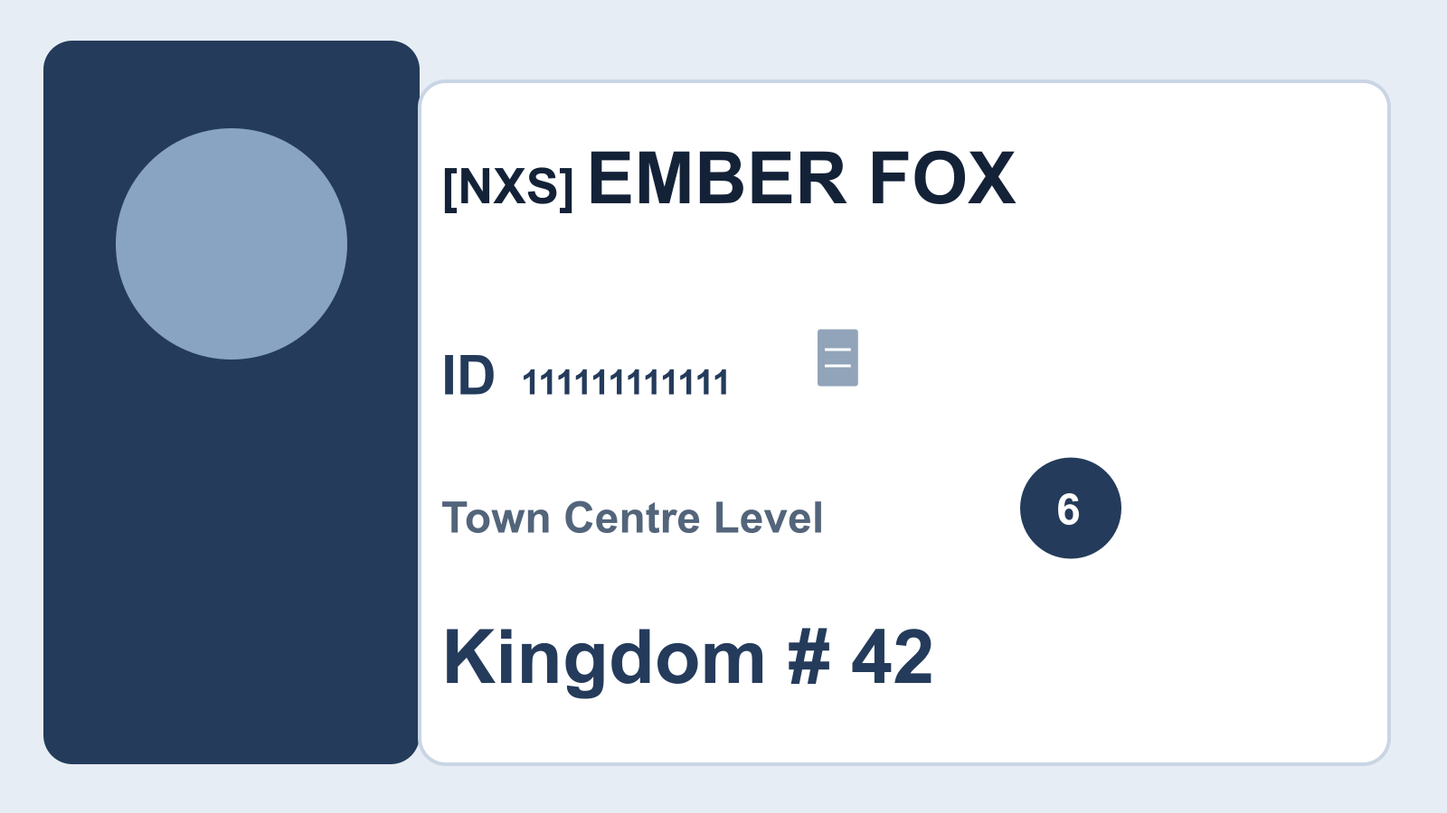
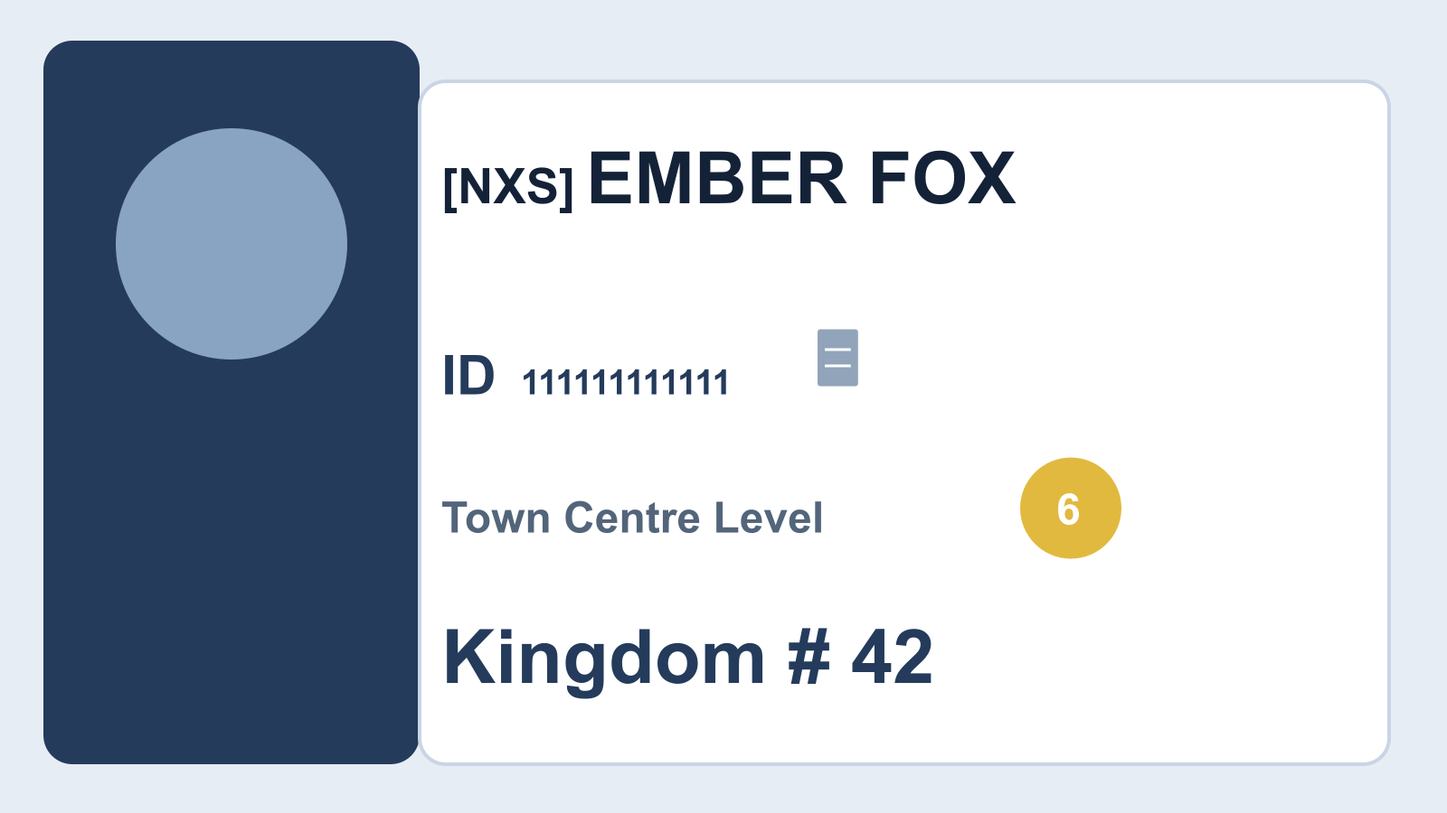
VISION-LINK-008: correct Town Centre badge calibration

Changed region(s): [[0.6875, 0.56, 0.7812, 0.6844]]

diff --git a/server/player-identity/tesseractJsAccountLinkOcrAdapter.ts b/server/player-identity/tesseractJsAccountLinkOcrAdapter.ts
@@ -4,10 +4,10 @@ import { createWorker, PSM, type Worker } from 'tesseract.js'
 import type { VisionExtractionRequest } from '../../shared/platform/vision/contracts.js'
 import { VisionRuntimeError } from '../vision/runtime/errors.js'
 import type { AccountLinkOcrAdapter } from './accountLinkingOcrService.js'
-import { KINGSHOT_PROFILE_V1_MAPPING_VERSION, KINGSHOT_PROFILE_V2_MAPPING_VERSION, KINGSHOT_PROFILE_V3_MAPPING_VERSION, KINGSHOT_PROFILE_V4_MAPPING_VERSION, KINGSHOT_PROFILE_V5_MAPPING_VERSION, KINGSHOT_PROFILE_V6_MAPPING_VERSION, prepareProfileRegion, type KingshotProfileRegion } from './kingshotProfileOcr.js'
-import { KINGSHOT_PROFILE_V1_REGIONS, KINGSHOT_PROFILE_V2_REGIONS, KINGSHOT_PROFILE_V3_REGIONS, KINGSHOT_PROFILE_V4_REGIONS, KINGSHOT_PROFILE_V5_REGIONS, KINGSHOT_PROFILE_V6_REGIONS, type KingshotProfileField } from '../../shared/domains/player-identity/kingshotProfileMapping.js'
+import { KINGSHOT_PROFILE_V1_MAPPING_VERSION, KINGSHOT_PROFILE_V2_MAPPING_VERSION, KINGSHOT_PROFILE_V3_MAPPING_VERSION, KINGSHOT_PROFILE_V4_MAPPING_VERSION, KINGSHOT_PROFILE_V5_MAPPING_VERSION, KINGSHOT_PROFILE_V6_MAPPING_VERSION, KINGSHOT_PROFILE_V7_MAPPING_VERSION, prepareProfileRegion, type KingshotProfileRegion } from './kingshotProfileOcr.js'
+import { KINGSHOT_PROFILE_V1_REGIONS, KINGSHOT_PROFILE_V2_REGIONS, KINGSHOT_PROFILE_V3_REGIONS, KINGSHOT_PROFILE_V4_REGIONS, KINGSHOT_PROFILE_V5_REGIONS, KINGSHOT_PROFILE_V6_REGIONS, KINGSHOT_PROFILE_V7_REGIONS, type KingshotProfileField } from '../../shared/domains/player-identity/kingshotProfileMapping.js'
 import type { AccountLinkOcrDisposition, AccountLinkOcrMappingVersion, AccountLinkOcrRegionObservation } from '../../shared/domains/player-identity/accountLinkingOcr.js'
-import { consensusPlayerId, consensusComponentDigits, consensusKingdomLine, type ComponentNumericObservation, type PlayerIdObservation } from '../../shared/domains/player-identity/kingshotProfileConsensus.js'
+import { consensusPlayerId, consensusComponentDigits, consensusKingdomLine, consensusTownCenterBadge, type ComponentNumericObservation, type PlayerIdObservation } from '../../shared/domains/player-identity/kingshotProfileConsensus.js'
 
 const require = createRequire(import.meta.url)
 const RUNTIME_TIMEOUT_MS = 45_000
@@ -45,7 +45,8 @@ export class TesseractJsAccountLinkOcrAdapter implements AccountLinkOcrAdapter {
     try {
       const paths = bundledPaths()
       worker = await this.#workerFactory.create({ workerPath: paths.workerPath, langPath: paths.langPath, cacheMethod: 'none', gzip: true, workerBlobURL: false, logger: () => {} })
-      if (request.mappingVersionId === KINGSHOT_PROFILE_V6_MAPPING_VERSION) return await this.#extractV4(worker, request, true, true)
+      if (request.mappingVersionId === KINGSHOT_PROFILE_V7_MAPPING_VERSION) return await this.#extractV4(worker, request, true, true, 'v7')
+      if (request.mappingVersionId === KINGSHOT_PROFILE_V6_MAPPING_VERSION) return await this.#extractV4(worker, request, true, true, 'v6')
       if (request.mappingVersionId === KINGSHOT_PROFILE_V5_MAPPING_VERSION) return await this.#extractV4(worker, request, true)
       if (request.mappingVersionId === KINGSHOT_PROFILE_V4_MAPPING_VERSION) return await this.#extractV4(worker, request)
       if (request.mappingVersionId === KINGSHOT_PROFILE_V3_MAPPING_VERSION) return await this.#extractV3(worker, request)
@@ -153,12 +154,12 @@ export class TesseractJsAccountLinkOcrAdapter implements AccountLinkOcrAdapter {
     return { ...this.#output('', consensus.confidence, observations, diagnostics, fields, KINGSHOT_PROFILE_V3_MAPPING_VERSION), diagnostics: { mappingVersion: KINGSHOT_PROFILE_V3_MAPPING_VERSION, regions: diagnostics, fields, passes } }
   }
 
-  async #extractV4(worker: Worker, request: VisionExtractionRequest, labelledKingdomLine = false, townCenter = false) {
-    const region = (key: string) => (townCenter ? KINGSHOT_PROFILE_V6_REGIONS : KINGSHOT_PROFILE_V4_REGIONS).find((item) => item.key === key)!
+  async #extractV4(worker: Worker, request: VisionExtractionRequest, labelledKingdomLine = false, townCenter = false, townCalibration: 'v6' | 'v7' = 'v6') {
+    const region = (key: string) => (townCenter ? townCalibration === 'v7' ? KINGSHOT_PROFILE_V7_REGIONS : KINGSHOT_PROFILE_V6_REGIONS : KINGSHOT_PROFILE_V4_REGIONS).find((item) => item.key === key)!
     const panel = await this.#recognizePrepared(worker, request, region('profilePanel'), 'greyscale', PSM.SPARSE_TEXT, null)
     const passes: Array<{ field: KingshotProfileField; passType: 'labelled_line' | 'numeric_only' | 'panel' | 'label_component' | 'digits_single_word' | 'digits_single_line'; variant: 'greyscale' | 'threshold' | 'inverted'; attempted: boolean; confidence: number; labelContext: boolean; warnings: string[] }> = []
-    const read = async (field: KingshotProfileField, item: KingshotProfileRegion, variant: 'greyscale' | 'threshold' | 'inverted', psm: string, passType: 'label_component' | 'digits_single_word' | 'digits_single_line', whitelist: string | null) => {
-      const result = await this.#recognizePrepared(worker, request, item, variant, psm, whitelist)
+    const read = async (field: KingshotProfileField, item: KingshotProfileRegion, variant: 'greyscale' | 'threshold' | 'inverted', psm: string, passType: 'label_component' | 'digits_single_word' | 'digits_single_line', whitelist: string | null, thresholdValue = 168, focus?: { x: number; y: number; width: number; height: number }) => {
+      const result = await this.#recognizePrepared(worker, request, item, variant, psm, whitelist, thresholdValue, focus)
       const text = cleanRawText(result.text)
       const labelContext = field === 'playerId' ? /(?:[i1]d)/i.test(text) : field === 'kingdom' ? /kingdom/i.test(text) : false
       passes.push({ field, passType, variant, attempted: true, confidence: result.confidence, labelContext, warnings: result.confidence === 0 ? ['zero_confidence_numeric'] : [] })
@@ -238,22 +239,30 @@ export class TesseractJsAccountLinkOcrAdapter implements AccountLinkOcrAdapter {
     await readSupporting('displayName', 'displayName')
     if (townCenter) {
       const labelRegion = region('townCenterLabel')
-      const badgeRegion = region('townCenterBadge')
+      const tightRegion = region(townCalibration === 'v7' ? 'townCenterBadgeTight' : 'townCenterBadge')
+      const contextRegion = townCalibration === 'v7' ? region('townCenterBadgeContext') : null
       const labelReads = [
         await read('townCenterLevel', labelRegion, 'greyscale', PSM.SINGLE_LINE, 'label_component', labelRegion.characterWhitelist),
         await read('townCenterLevel', labelRegion, 'threshold', PSM.SINGLE_LINE, 'label_component', labelRegion.characterWhitelist),
       ]
       const badgeReads = [
-        await read('townCenterLevel', badgeRegion, 'greyscale', PSM.SINGLE_WORD, 'digits_single_word', '0123456789'),
-        await read('townCenterLevel', badgeRegion, 'greyscale', PSM.SINGLE_LINE, 'digits_single_line', '0123456789'),
-        await read('townCenterLevel', badgeRegion, 'threshold', PSM.SINGLE_WORD, 'digits_single_word', '0123456789'),
-        await read('townCenterLevel', badgeRegion, 'threshold', PSM.SINGLE_LINE, 'digits_single_line', '0123456789'),
-        await read('townCenterLevel', badgeRegion, 'inverted', PSM.SINGLE_WORD, 'digits_single_word', '0123456789'),
-        await read('townCenterLevel', badgeRegion, 'inverted', PSM.SINGLE_LINE, 'digits_single_line', '0123456789'),
+        await read('townCenterLevel', tightRegion, 'greyscale', PSM.SINGLE_WORD, 'digits_single_word', '0123456789', 168, { x: .30, y: .35, width: .40, height: .50 }),
+        await read('townCenterLevel', tightRegion, 'greyscale', PSM.SINGLE_LINE, 'digits_single_line', '0123456789', 168, { x: .30, y: .35, width: .40, height: .50 }),
+        await read('townCenterLevel', tightRegion, 'threshold', PSM.SINGLE_WORD, 'digits_single_word', '0123456789', 220, { x: .30, y: .35, width: .40, height: .50 }),
+        await read('townCenterLevel', tightRegion, 'threshold', PSM.SINGLE_LINE, 'digits_single_line', '0123456789', 220, { x: .30, y: .35, width: .40, height: .50 }),
+        await read('townCenterLevel', tightRegion, 'inverted', PSM.SINGLE_WORD, 'digits_single_word', '0123456789', 168, { x: .30, y: .35, width: .40, height: .50 }),
+        await read('townCenterLevel', tightRegion, 'inverted', PSM.SINGLE_LINE, 'digits_single_line', '0123456789', 168, { x: .30, y: .35, width: .40, height: .50 }),
       ]
+      const contextReads = contextRegion ? [
+        await read('townCenterLevel', contextRegion, 'threshold', PSM.SINGLE_WORD, 'digits_single_word', '0123456789', 220),
+        await read('townCenterLevel', contextRegion, 'inverted', PSM.SINGLE_LINE, 'digits_single_line', '0123456789'),
+      ] : []
       const labelContext = labelReads.some((item) => /town\s*(?:centre|center)/i.test(item.text)) || /town\s*(?:centre|center)/i.test(cleanRawText(panel.text))
-      const numeric = badgeReads.map((item, index) => ({ passType: componentPass(index), variant: componentVariant(index), digits: extractDigits(item.text, 2), confidence: item.confidence }))
-      const consensus = consensusComponentDigits(numeric, labelContext, (value) => Number(value) >= 1 && Number(value) <= 30)
+      const numeric = badgeReads.map((item) => ({ source: 'tight' as const, value: extractDigits(item.text, 2), confidence: item.confidence }))
+      const supporting = contextReads.map((item) => ({ source: 'context' as const, value: extractDigits(item.text, 2), confidence: item.confidence }))
+      const consensus = townCalibration === 'v7'
+        ? consensusTownCenterBadge(numeric, supporting, labelContext)
+        : consensusComponentDigits(badgeReads.map((item, index) => ({ passType: componentPass(index), variant: componentVariant(index), digits: extractDigits(item.text, 2), confidence: item.confidence })), labelContext, (value) => Number(value) >= 1 && Number(value) <= 30)
       const warnings = labelContext ? consensus.warnings : [...consensus.warnings, 'town_center_label_context_required']
       const disposition = consensus.disposition
       const agreement = consensus.agreement === 'insufficient' ? 'not_applicable' : consensus.agreement
@@ -261,12 +270,12 @@ export class TesseractJsAccountLinkOcrAdapter implements AccountLinkOcrAdapter {
       diagnostics.push({ field: 'townCenterLevel', attempted: true, recognized: Boolean(consensus.value), confidence: consensus.confidence, warnings })
       fields.push({ field: 'townCenterLevel', disposition, confidence: consensus.confidence, agreement, warnings })
     }
-    const mappingVersion = townCenter ? KINGSHOT_PROFILE_V6_MAPPING_VERSION : labelledKingdomLine ? KINGSHOT_PROFILE_V5_MAPPING_VERSION : KINGSHOT_PROFILE_V4_MAPPING_VERSION
+    const mappingVersion = townCenter ? townCalibration === 'v7' ? KINGSHOT_PROFILE_V7_MAPPING_VERSION : KINGSHOT_PROFILE_V6_MAPPING_VERSION : labelledKingdomLine ? KINGSHOT_PROFILE_V5_MAPPING_VERSION : KINGSHOT_PROFILE_V4_MAPPING_VERSION
     return { ...this.#output('', Math.max(idConsensus.confidence, ...fields.map((item) => item.confidence)), observations, diagnostics, fields, mappingVersion), diagnostics: { mappingVersion, regions: diagnostics, fields, passes } }
   }
 
-  async #recognizePrepared(worker: Worker, request: VisionExtractionRequest, region: KingshotProfileRegion, variant: 'greyscale' | 'threshold' | 'inverted', psm: string, whitelist: string | null) {
-    const prepared = await prepareProfileRegion({ bytes: request.image.bytes, mimeType: request.image.mimeType, widthPx: request.image.widthPx, heightPx: request.image.heightPx, region, variant })
+  async #recognizePrepared(worker: Worker, request: VisionExtractionRequest, region: KingshotProfileRegion, variant: 'greyscale' | 'threshold' | 'inverted', psm: string, whitelist: string | null, thresholdValue = 168, focus?: { x: number; y: number; width: number; height: number }) {
+    const prepared = await prepareProfileRegion({ bytes: request.image.bytes, mimeType: request.image.mimeType, widthPx: request.image.widthPx, heightPx: request.image.heightPx, region, variant, thresholdValue, focus })
     const result = await this.#recognize(worker, Buffer.from(prepared.bytes), { left: 0, top: 0, width: prepared.widthPx, height: prepared.heightPx }, psm, whitelist, prepared.scale)
     return { ...result, prepared }
   }

diff --git a/server/player-identity/kingshotProfileOcr.ts b/server/player-identity/kingshotProfileOcr.ts
@@ -1,6 +1,6 @@
 import sharp from 'sharp'
 import type { VisionPixelBox, VisionRegionBinding } from '../../shared/platform/vision/contracts.js'
-import { KINGSHOT_PROFILE_V1_REGIONS, KINGSHOT_PROFILE_V2_REGIONS, KINGSHOT_PROFILE_V3_REGIONS, KINGSHOT_PROFILE_V4_REGIONS, KINGSHOT_PROFILE_V5_REGIONS, KINGSHOT_PROFILE_V6_REGIONS, type KingshotProfileRegionConfig } from '../../shared/domains/player-identity/kingshotProfileMapping.js'
+import { KINGSHOT_PROFILE_V1_REGIONS, KINGSHOT_PROFILE_V2_REGIONS, KINGSHOT_PROFILE_V3_REGIONS, KINGSHOT_PROFILE_V4_REGIONS, KINGSHOT_PROFILE_V5_REGIONS, KINGSHOT_PROFILE_V6_REGIONS, KINGSHOT_PROFILE_V7_REGIONS, type KingshotProfileRegionConfig } from '../../shared/domains/player-identity/kingshotProfileMapping.js'
 
 export const KINGSHOT_PROFILE_V1_MAPPING_VERSION = 'account-linking-kingshot-profile-v1' as const
 export const KINGSHOT_PROFILE_V2_MAPPING_VERSION = 'account-linking-kingshot-profile-v2' as const
@@ -8,15 +8,16 @@ export const KINGSHOT_PROFILE_V3_MAPPING_VERSION = 'account-linking-kingshot-pro
 export const KINGSHOT_PROFILE_V4_MAPPING_VERSION = 'account-linking-kingshot-profile-v4' as const
 export const KINGSHOT_PROFILE_V5_MAPPING_VERSION = 'account-linking-kingshot-profile-v5' as const
 export const KINGSHOT_PROFILE_V6_MAPPING_VERSION = 'account-linking-kingshot-profile-v6' as const
+export const KINGSHOT_PROFILE_V7_MAPPING_VERSION = 'account-linking-kingshot-profile-v7' as const
 export const KINGSHOT_PROFILE_V2_MAPPING_ID = 'account-linking-kingshot-profile-v2'
 export const KINGSHOT_PROFILE_MAX_PIXELS = 8_000_000
 export const KINGSHOT_PROFILE_MAX_DIMENSION = 4_000
 
 export type KingshotProfileRegion = KingshotProfileRegionConfig
 
-export function profileRegionBindings(version: 'v1' | 'v2' | 'v3' | 'v4' | 'v5' | 'v6' = 'v2'): VisionRegionBinding[] {
-  const regions = version === 'v1' ? KINGSHOT_PROFILE_V1_REGIONS : version === 'v3' ? KINGSHOT_PROFILE_V3_REGIONS : version === 'v4' ? KINGSHOT_PROFILE_V4_REGIONS : version === 'v5' ? KINGSHOT_PROFILE_V5_REGIONS : version === 'v6' ? KINGSHOT_PROFILE_V6_REGIONS : KINGSHOT_PROFILE_V2_REGIONS
-  const mappingId = version === 'v1' ? 'account-linking-kingshot-profile-v1' : version === 'v3' ? KINGSHOT_PROFILE_V3_MAPPING_VERSION : version === 'v4' ? KINGSHOT_PROFILE_V4_MAPPING_VERSION : version === 'v5' ? KINGSHOT_PROFILE_V5_MAPPING_VERSION : version === 'v6' ? KINGSHOT_PROFILE_V6_MAPPING_VERSION : KINGSHOT_PROFILE_V2_MAPPING_ID
+export function profileRegionBindings(version: 'v1' | 'v2' | 'v3' | 'v4' | 'v5' | 'v6' | 'v7' = 'v2'): VisionRegionBinding[] {
+  const regions = version === 'v1' ? KINGSHOT_PROFILE_V1_REGIONS : version === 'v3' ? KINGSHOT_PROFILE_V3_REGIONS : version === 'v4' ? KINGSHOT_PROFILE_V4_REGIONS : version === 'v5' ? KINGSHOT_PROFILE_V5_REGIONS : version === 'v6' ? KINGSHOT_PROFILE_V6_REGIONS : version === 'v7' ? KINGSHOT_PROFILE_V7_REGIONS : KINGSHOT_PROFILE_V2_REGIONS
+  const mappingId = version === 'v1' ? 'account-linking-kingshot-profile-v1' : version === 'v3' ? KINGSHOT_PROFILE_V3_MAPPING_VERSION : version === 'v4' ? KINGSHOT_PROFILE_V4_MAPPING_VERSION : version === 'v5' ? KINGSHOT_PROFILE_V5_MAPPING_VERSION : version === 'v6' ? KINGSHOT_PROFILE_V6_MAPPING_VERSION : version === 'v7' ? KINGSHOT_PROFILE_V7_MAPPING_VERSION : KINGSHOT_PROFILE_V2_MAPPING_ID
   return regions.map((region, index) => ({ id: `${mappingId}-${region.key}`, regionKey: region.key, label: region.label, role: region.componentRole === 'exclusion' ? 'comparison' : 'source', anchorRules: { layout: 'kingshot-profile-card', psm: region.psm, characterWhitelist: region.characterWhitelist, observation: region.observation, componentRole: region.componentRole ?? 'ocr' }, sortOrder: index, x: region.x, y: region.y, width: region.width, height: region.height }))
 }
 
@@ -36,16 +37,17 @@ export interface PreparedProfileRegion {
   readonly warningCodes: readonly string[]
 }
 
-export async function prepareProfileRegion(input: { bytes: Uint8Array; mimeType: string; widthPx: number; heightPx: number; region: KingshotProfileRegion; variant?: 'greyscale' | 'threshold' | 'inverted' }): Promise<PreparedProfileRegion> {
+export async function prepareProfileRegion(input: { bytes: Uint8Array; mimeType: string; widthPx: number; heightPx: number; region: KingshotProfileRegion; variant?: 'greyscale' | 'threshold' | 'inverted'; thresholdValue?: number; focus?: { x: number; y: number; width: number; height: number } }): Promise<PreparedProfileRegion> {
   const sourceRectangle = mapProfileRegion(input.region, input.widthPx, input.heightPx)
+  const cropRectangle = input.focus ? { left: sourceRectangle.left + Math.floor(sourceRectangle.width * input.focus.x), top: sourceRectangle.top + Math.floor(sourceRectangle.height * input.focus.y), width: Math.max(1, Math.floor(sourceRectangle.width * input.focus.width)), height: Math.max(1, Math.floor(sourceRectangle.height * input.focus.height)) } : sourceRectangle
   const padding = 12
   const scale = 3
-  const outputWidth = Math.min(KINGSHOT_PROFILE_MAX_DIMENSION, (sourceRectangle.width + padding * 2) * scale)
-  const outputHeight = Math.min(KINGSHOT_PROFILE_MAX_DIMENSION, (sourceRectangle.height + padding * 2) * scale)
+  const outputWidth = Math.min(KINGSHOT_PROFILE_MAX_DIMENSION, (cropRectangle.width + padding * 2) * scale)
+  const outputHeight = Math.min(KINGSHOT_PROFILE_MAX_DIMENSION, (cropRectangle.height + padding * 2) * scale)
   if (outputWidth * outputHeight > KINGSHOT_PROFILE_MAX_PIXELS) throw new Error('Profile OCR preprocessing exceeded its bounded pixel budget.')
   const variant = input.variant ?? 'greyscale'
-  let pipeline = sharp(Buffer.from(input.bytes), { failOn: 'error' }).extract(sourceRectangle).extend({ top: padding, bottom: padding, left: padding, right: padding, background: { r: 255, g: 255, b: 255, alpha: 1 } }).resize({ width: outputWidth, height: outputHeight, fit: 'fill', kernel: 'lanczos3' }).grayscale().linear(1.12, -12)
-  if (variant === 'threshold') pipeline = pipeline.threshold(168)
+  let pipeline = sharp(Buffer.from(input.bytes), { failOn: 'error' }).extract(cropRectangle).extend({ top: padding, bottom: padding, left: padding, right: padding, background: { r: 255, g: 255, b: 255, alpha: 1 } }).resize({ width: outputWidth, height: outputHeight, fit: 'fill', kernel: 'lanczos3' }).grayscale().linear(1.12, -12)
+  if (variant === 'threshold') pipeline = pipeline.threshold(input.thresholdValue ?? 168)
   if (variant === 'inverted') pipeline = pipeline.negate()
   const { data, info } = await pipeline.png({ compressionLevel: 6 }).toBuffer({ resolveWithObject: true })
   return { bytes: new Uint8Array(data), widthPx: info.width, heightPx: info.height, sourceRectangle, variant, scale, warningCodes: variant === 'threshold' ? ['threshold_variant'] : variant === 'inverted' ? ['inverted_high_contrast_variant'] : ['bounded_3x_upscale', 'greyscale_contrast'] }

diff --git a/src/features/admin/VisionAccountLinkingAcceptancePage.tsx b/src/features/admin/VisionAccountLinkingAcceptancePage.tsx
@@ -2,7 +2,7 @@ import { useCallback, useEffect, useRef, useState } from 'react'
 import { useAuth } from '../../context/AuthContext'
 import { supabase } from '../../lib/supabase'
 import type { AccountLinkOcrResult } from '../../../shared/domains/player-identity/accountLinkingOcr'
-import { KINGSHOT_PROFILE_V6_REGIONS } from '../../../shared/domains/player-identity/kingshotProfileMapping'
+import { KINGSHOT_PROFILE_V7_REGIONS } from '../../../shared/domains/player-identity/kingshotProfileMapping'
 import { VISION_ACCEPTANCE_ACTIVE_EVIDENCE_SESSION_KEY, VISION_ACCEPTANCE_RECOVERY_EVIDENCE_ID } from '../../../shared/platform/vision/evidenceStorageContracts'
 
 const ACCEPTANCE_ENABLED = import.meta.env.VITE_ENABLE_VISION_LINK_ACCEPTANCE === 'true'
@@ -159,7 +159,7 @@ export function VisionAccountLinkingAcceptancePage() {
       <div className="vision-acceptance__file-control"><label className="button button--primary" htmlFor="vision-acceptance-file">{busy ? 'Processing…' : 'Choose screenshot'}</label><input ref={inputRef} id="vision-acceptance-file" className="vision-acceptance__file-input" type="file" accept={MIME_TYPES.join(',')} disabled={busy} onChange={handleFileSelection} /></div>
       {recoveryAvailable && <section className="vision-acceptance__recovery" aria-labelledby="vision-acceptance-recovery-title"><h2 id="vision-acceptance-recovery-title">Recover unfinished synthetic acceptance</h2><p>A previously completed synthetic acceptance is awaiting owner cancellation.</p><button className="button button--secondary" type="button" disabled={recoveryDeleting} onClick={() => void cancelRecovery()}>{recoveryDeleting ? 'Deleting evidence…' : 'Delete unfinished synthetic evidence'}</button></section>}
       {selectedFile && <p className="vision-acceptance__selected" role="status">Selected: {selectedFile.name} · {selectedFile.type || 'unknown MIME'} · {selectedFile.size.toLocaleString()} bytes</p>}
-      {previewUrl && <><button className="button button--secondary vision-acceptance__toggle" type="button" aria-pressed={showRegions} onClick={() => setShowRegions((visible) => !visible)}>{showRegions ? 'Hide OCR regions' : 'Show OCR regions'}</button><div className="vision-acceptance__preview-wrap"><img className="vision-acceptance__preview" src={previewUrl} alt="Selected screenshot preview" />{showRegions && <div className="vision-acceptance__overlay" aria-label="OCR region overlay">{KINGSHOT_PROFILE_V6_REGIONS.map((region, index) => <div key={region.key} className={`vision-acceptance__overlay-region vision-acceptance__overlay-region--${region.key} ${region.componentRole === 'exclusion' ? 'vision-acceptance__overlay-region--exclusion' : ''}`} style={{ left: `${region.x * 100}%`, top: `${region.y * 100}%`, width: `${region.width * 100}%`, height: `${region.height * 100}%` }}><span>{index + 1}. {region.label}</span></div>)}</div>}</div></>}
+      {previewUrl && <><button className="button button--secondary vision-acceptance__toggle" type="button" aria-pressed={showRegions} onClick={() => setShowRegions((visible) => !visible)}>{showRegions ? 'Hide OCR regions' : 'Show OCR regions'}</button><div className="vision-acceptance__preview-wrap"><img className="vision-acceptance__preview" src={previewUrl} alt="Selected screenshot preview" />{showRegions && <><div className="vision-acceptance__overlay" aria-label="OCR region overlay">{KINGSHOT_PROFILE_V7_REGIONS.map((region, index) => <div key={region.key} className={`vision-acceptance__overlay-region vision-acceptance__overlay-region--${region.key} ${region.componentRole === 'exclusion' ? 'vision-acceptance__overlay-region--exclusion' : ''}`} style={{ left: `${region.x * 100}%`, top: `${region.y * 100}%`, width: `${region.width * 100}%`, height: `${region.height * 100}%` }}>{region.key === 'townCenterLabel' || region.key === 'townCenterBadgeTight' || region.key === 'townCenterBadgeContext' ? null : <span>{index + 1}. {region.label}</span>}</div>)}</div><div className="vision-acceptance__legend" aria-label="Town Centre OCR region legend"><span><i className="vision-acceptance__legend-swatch vision-acceptance__legend-swatch--label" />Town Centre label</span><span><i className="vision-acceptance__legend-swatch vision-acceptance__legend-swatch--tight" />Badge tight</span><span><i className="vision-acceptance__legend-swatch vision-acceptance__legend-swatch--context" />Badge context</span></div></>}</div></>}
       {message && <p className="vision-acceptance__success" role="status">{message}</p>}
       {error && <p className="vision-acceptance__error" role="alert">{error}</p>}
       {state === 'cancelled' && <p className="vision-acceptance__success" role="status">Final confirmation: exact screenshot evidence was removed.</p>}

diff --git a/shared/domains/player-identity/kingshotProfileConsensus.ts b/shared/domains/player-identity/kingshotProfileConsensus.ts
@@ -77,3 +77,25 @@ export function consensusKingdomLine(reads: readonly KingdomLineRead[], labelCon
   if (valid.length === 2 && valid[0].value !== valid[1].value) return { disposition: 'conflicting_reads', agreement: 'disagree', confidence, warnings: ['conflicting_digit_strings'] }
   return { disposition: 'could_not_read', agreement: 'insufficient', confidence, warnings: labelContext ? [] : ['kingdom_label_context_required'] }
 }
+
+export type TownCenterBadgeObservation = { readonly source: 'tight' | 'context'; readonly value?: string; readonly confidence: number }
+
+export function consensusTownCenterBadge(tight: readonly TownCenterBadgeObservation[], context: readonly TownCenterBadgeObservation[], labelContext: boolean): PlayerIdConsensus {
+  const validTight = tight.filter((item) => item.value && Number(item.value) >= 1 && Number(item.value) <= 30 && item.confidence > 0)
+  const validContext = context.filter((item) => item.value && Number(item.value) >= 1 && Number(item.value) <= 30 && item.confidence > 0)
+  const confidence = Math.max(...[...validTight, ...validContext].map((item) => item.confidence), 0)
+  if (!labelContext) return { disposition: 'could_not_read', agreement: 'insufficient', confidence, warnings: ['town_center_label_context_required'] }
+  const groups = new Map<string, TownCenterBadgeObservation[]>()
+  for (const item of validTight) groups.set(item.value!, [...(groups.get(item.value!) ?? []), item])
+  const strongValues = new Set(validTight.filter((item) => item.confidence >= COMPONENT_NUMERIC_STRONG_CONFIDENCE).map((item) => item.value))
+  if (strongValues.size > 1) return { disposition: 'conflicting_reads', agreement: 'disagree', confidence, warnings: ['conflicting_town_center_levels'] }
+  const supported = [...groups.entries()].filter(([, items]) => items.length >= 2 && items.some((item) => item.confidence >= COMPONENT_NUMERIC_STRONG_CONFIDENCE))
+  if (supported.length === 0) return { disposition: 'could_not_read', agreement: 'insufficient', confidence, warnings: ['insufficient_tight_badge_agreement'] }
+  const ranked = supported.sort((a, b) => b[1].length - a[1].length || Math.max(...b[1].map((item) => item.confidence)) - Math.max(...a[1].map((item) => item.confidence)))
+  const [value, observations] = ranked[0]
+  const strongest = Math.max(...observations.map((item) => item.confidence))
+  const conflict = [...groups.entries()].some(([candidate, items]) => candidate !== value && Math.max(...items.map((item) => item.confidence)) >= strongest - 0.05)
+  if (conflict) return { disposition: 'conflicting_reads', agreement: 'disagree', confidence, warnings: ['conflicting_town_center_levels'] }
+  const contextSupport = validContext.some((item) => item.value === value)
+  return { value, disposition: 'recognised', agreement: validTight.length < tight.length ? 'agree_with_missing_pass' : 'agree', confidence: strongest, warnings: contextSupport ? [] : ['tight_badge_only_consensus'] }
+}

diff --git a/shared/domains/player-identity/accountLinkingOcr.ts b/shared/domains/player-identity/accountLinkingOcr.ts
@@ -1,5 +1,5 @@
 export type AccountLinkOcrField = 'playerId' | 'displayName' | 'kingdom' | 'allianceTag' | 'townCenterLevel'
-export type AccountLinkOcrMappingVersion = 'account-linking-ocr-mvp' | 'account-linking-kingshot-profile-v1' | 'account-linking-kingshot-profile-v2' | 'account-linking-kingshot-profile-v3' | 'account-linking-kingshot-profile-v4' | 'account-linking-kingshot-profile-v5' | 'account-linking-kingshot-profile-v6'
+export type AccountLinkOcrMappingVersion = 'account-linking-ocr-mvp' | 'account-linking-kingshot-profile-v1' | 'account-linking-kingshot-profile-v2' | 'account-linking-kingshot-profile-v3' | 'account-linking-kingshot-profile-v4' | 'account-linking-kingshot-profile-v5' | 'account-linking-kingshot-profile-v6' | 'account-linking-kingshot-profile-v7'
 export type AccountLinkOcrDisposition = 'recognised' | 'review_required' | 'could_not_read' | 'conflicting_reads'
 
 export interface AccountLinkOcrRegionObservation {
@@ -108,7 +108,7 @@ export function parseAccountLinkCandidates(rawText: string, evidenceId: string, 
 
   const allianceRegion = regionFor('allianceTag')
   const allianceRaw = allianceRegion?.acceptedValue ?? normalizeName(allianceRegion?.rawText ?? '')
-  const alliance = mappingVersion === 'account-linking-kingshot-profile-v6' ? normalizeAllianceTag(allianceRaw).value : allianceRaw
+  const alliance = mappingVersion === 'account-linking-kingshot-profile-v6' || mappingVersion === 'account-linking-kingshot-profile-v7' ? normalizeAllianceTag(allianceRaw).value : allianceRaw
   if (alliance) candidates.push(candidate('allianceTag', alliance, allianceRaw, evidenceId, (allianceRegion?.confidence ?? bounded) * 0.8, mappingVersion, [...(allianceRegion?.warnings ?? []), 'supporting_information_review_only']))
 
   const kingdomRegion = regionFor('kingdom')

diff --git a/shared/domains/player-identity/kingshotProfileMapping.ts b/shared/domains/player-identity/kingshotProfileMapping.ts
@@ -1,7 +1,7 @@
 export type KingshotProfileField = 'displayName' | 'playerId' | 'kingdom' | 'allianceTag' | 'townCenterLevel'
 export type KingshotProfileRegionKey = KingshotProfileField | 'profilePanel'
   | 'playerIdNumeric' | 'avatar' | 'clipboardIcon' | 'playerIdLabel' | 'playerIdDigits'
-  | 'townCenterLabel' | 'townCenterBadge' | 'kingdomLabel' | 'kingdomDigits' | 'kingdomLine'
+  | 'townCenterLabel' | 'townCenterBadge' | 'townCenterBadgeTight' | 'townCenterBadgeContext' | 'kingdomLabel' | 'kingdomDigits' | 'kingdomLine'
 export type KingshotProfileObservation = 'panel' | 'line' | 'numeric' | 'component' | 'exclusion' | 'layout'
 export type KingshotProfileComponentRole = 'ocr' | 'layout' | 'exclusion'
 export type KingshotProfileRegionConfig = {
@@ -64,3 +64,8 @@ export const KINGSHOT_PROFILE_V6_REGIONS: readonly KingshotProfileRegionConfig[]
   : region.key === 'townCenterBadge'
     ? { ...region, x: 0.67, y: 0.47, width: 0.16, height: 0.25, observation: 'numeric' as const, componentRole: 'ocr' as const }
     : region)
+
+export const KINGSHOT_PROFILE_V7_REGIONS: readonly KingshotProfileRegionConfig[] = KINGSHOT_PROFILE_V6_REGIONS.filter((region) => region.key !== 'townCenterBadge').concat([
+  { key: 'townCenterBadgeTight', field: 'townCenterLevel', label: 'Town Centre badge tight', x: 0.59, y: 0.43, width: 0.13, height: 0.31, psm: 'single_word', characterWhitelist: '0123456789', observation: 'numeric', componentRole: 'ocr' },
+  { key: 'townCenterBadgeContext', field: 'townCenterLevel', label: 'Town Centre badge context', x: 0.56, y: 0.40, width: 0.19, height: 0.36, psm: 'single_line', characterWhitelist: '0123456789', observation: 'numeric', componentRole: 'ocr' },
+])

diff --git a/src/features/admin/visionStudio.css b/src/features/admin/visionStudio.css
@@ -207,6 +207,15 @@
 .vision-acceptance__overlay-region--playerIdDigits, .vision-acceptance__overlay-region--kingdomDigits { border-color: #fb923c; background: rgba(251, 146, 60, .025); }
 .vision-acceptance__overlay-region--clipboardIcon { border: 2px dashed #e879f9; background: rgba(232, 121, 249, .12); }
 .vision-acceptance__overlay-region--avatar, .vision-acceptance__overlay-region--townCenterBadge, .vision-acceptance__overlay-region--townCenterLabel { border-color: #64748b; }
+.vision-acceptance__overlay-region--townCenterLabel { border-color: #64748b; }
+.vision-acceptance__overlay-region--townCenterBadgeTight { border: 3px solid #16a34a; background: rgba(22, 163, 74, .04); }
+.vision-acceptance__overlay-region--townCenterBadgeContext { border: 3px dashed #2563eb; background: rgba(37, 99, 235, .035); }
+.vision-acceptance__legend { display: flex; flex-wrap: wrap; gap: .75rem; margin-top: .5rem; font-size: .8rem; color: #334155; }
+.vision-acceptance__legend span { display: inline-flex; align-items: center; gap: .3rem; }
+.vision-acceptance__legend-swatch { width: .75rem; height: .75rem; display: inline-block; border: 2px solid; }
+.vision-acceptance__legend-swatch--label { border-color: #64748b; }
+.vision-acceptance__legend-swatch--tight { border-color: #16a34a; }
+.vision-acceptance__legend-swatch--context { border-color: #2563eb; border-style: dashed; }
 .vision-acceptance__toggle { margin-top: 1rem; }
 .vision-acceptance__overlay-region--displayName { border-color: #22c55e; }
 .vision-acceptance__overlay-region--playerId { border-color: #f59e0b; }

diff --git a/server/player-identity/accountLinkingOcrService.ts b/server/player-identity/accountLinkingOcrService.ts
@@ -27,7 +27,7 @@ export async function extractAccountLinkCandidates(input: {
   adapter?: AccountLinkOcrAdapter
 }): Promise<AccountLinkOcrResult> {
   const adapter = input.adapter ?? new TesseractJsAccountLinkOcrAdapter()
-  const mappingVersion = input.mappingVersion ?? 'account-linking-kingshot-profile-v6'
+  const mappingVersion = input.mappingVersion ?? 'account-linking-kingshot-profile-v7'
   const extracted = await adapter.extract({
     runId: `account-link-${input.evidenceId}`,
     mappingVersionId: mappingVersion,

diff --git a/docs/operations/FORGE-VISION-HANDOVER.md b/docs/operations/FORGE-VISION-HANDOVER.md
@@ -100,3 +100,6 @@ screenshot or account value is committed.
 V6 is an additive `account-linking-kingshot-profile-v6` mapping. V1 through V5 remain frozen. It retains the measured component geometry, adds Town Centre label and badge consensus (1–30, label context required), and normalises only V6 alliance tags to exactly three inner graphemes. The owner surface displays Player ID, name, Kingdom, alliance and Town Centre level; name, alliance and Town Centre remain review-only.
 
 The screenshot-linking route is isolated from account-context refreshes and never saves on OCR completion. A successful Kingshot API lookup remains authoritative. Only an explicit owner action after lookup failure may call `/api/player/ocr-fallback`; that path records `linked`/`none`, never `verified`, carries bounded evidence provenance and correction flags, and cancels the exact scan evidence after the save. No avatar or alliance membership is persisted by this fallback.
+## VISION-LINK-008 — final Town Centre badge calibration
+
+VISION-LINK-007 passed exact Player ID, Kingdom and three-character alliance normalisation; display name remained populated, editable and review-only. Owner testing found Town Centre `could_not_read` because the V6 badge box missed the measured badge. V7 preserves V1–V6 and uses shared measured regions: tight `(0.59, 0.43, 0.13, 0.31)` and context `(0.56, 0.40, 0.19, 0.36)`. The tight crop runs six bounded pixel-preprocessing passes and the context crop runs two supporting passes. Consensus requires label context, two agreeing tight observations, one strong observation, a 1–30 value and no strong conflict. No real screenshot or account value is committed.

diff --git a/docs/research/FRKS-VISION-ACCEPTANCE-001.md b/docs/research/FRKS-VISION-ACCEPTANCE-001.md
@@ -142,3 +142,6 @@ always `review_required`; fixtures contain no real screenshot or account value.
 ## VISION-LINK-007 acceptance note
 
 The five-field OCR contract is `playerId`, `displayName`, `kingdom`, `allianceTag` and `townCenterLevel`. Town Centre is a progression value and must not be confused with the API-owned `player_level`. OCR suggestions are review inputs only; corrections are separately marked `user-confirmed`. API success wins, and the explicit API-unavailable fallback remains unverified with exact evidence cancellation and append-only audit retention.
+## VISION-LINK-008 calibration record
+
+The V6 Town Centre failure was geometric, not a Player ID, Kingdom, alliance or review-form regression: its badge crop was positioned mainly right of the visible badge. V7 adds measured tight/context badge regions, retains label context, and uses exact Town Centre progression semantics. Synthetic fixtures cover one- and two-digit values, compressed/blurred and contrast variants, nearby Kingdom digits, and the deliberately misaligned V6 crop. No real screenshot, avatar or account value is stored.
